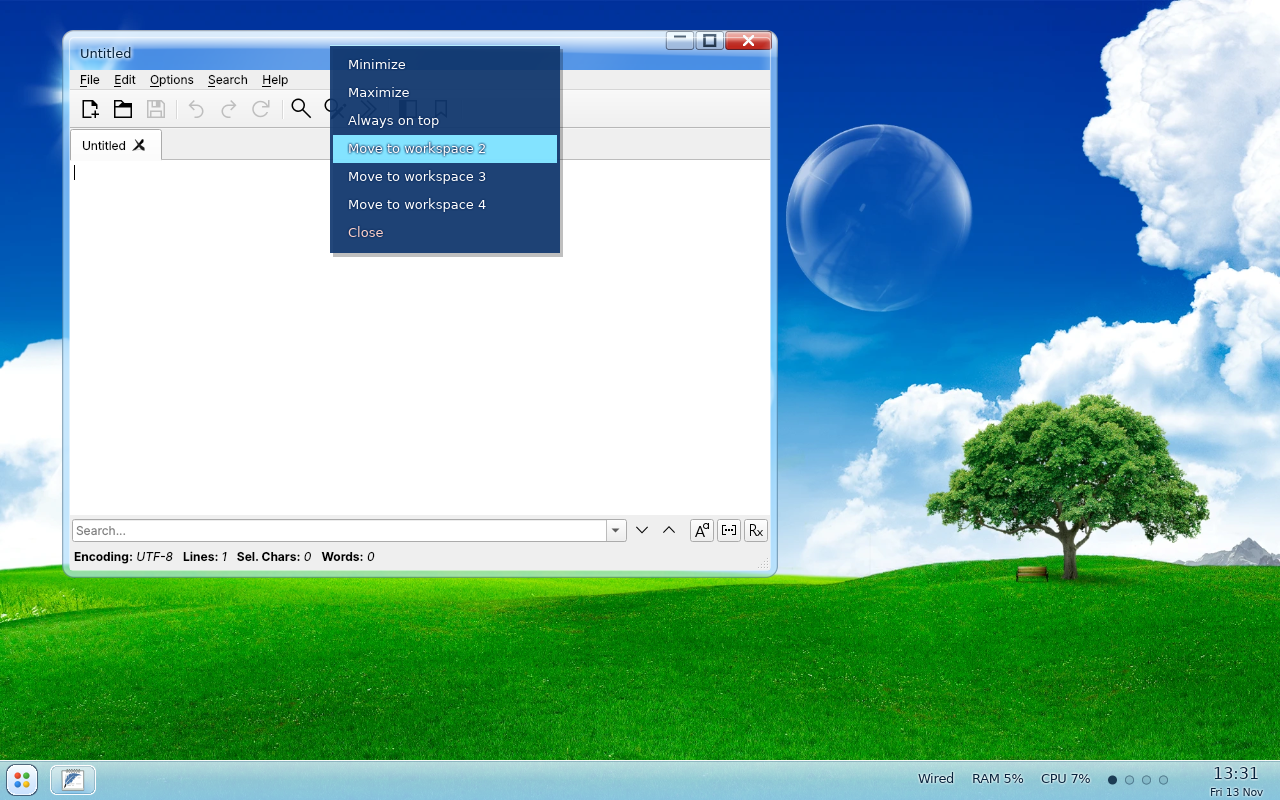
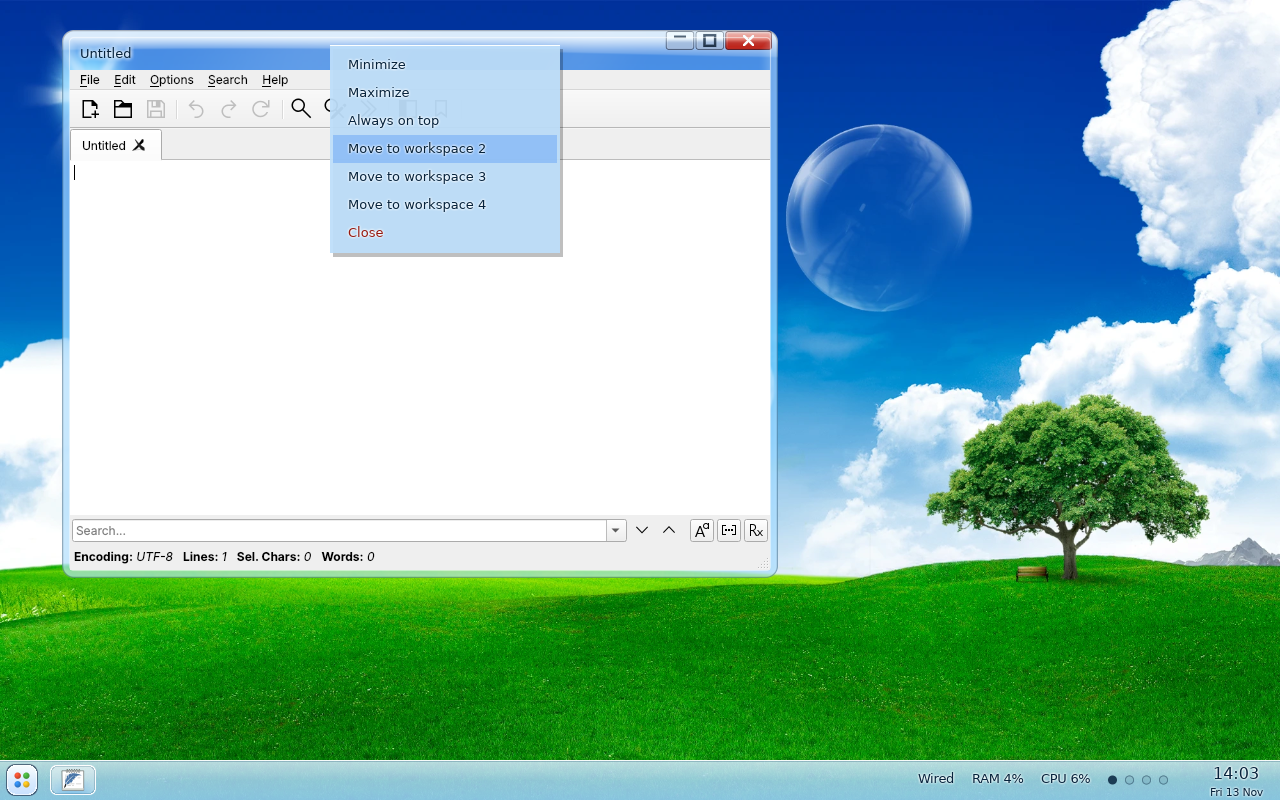
Start menu, notifications and the window menu in the light glass of the task bar and windows
- Start menu: light blue glass frame, bright rim, dark text; the power buttons are light tiles
  (red with white text while waiting for the second click)
- Notifications: light glass with dark text, a red tint for critical ones; action buttons are
  light tiles
- Window menu (right-click on a title bar): light glass, dark text, a blue highlight, a red Close
- Tests follow: the bubble test counts all three colour channels (light glass over a light sky
  differs less in red and green); screenshots retaken

Claude-Session: https://claude.ai/code/session_01AksNTTEEpWACMAbBincPJS

Changed region(s): [[0.25, 0.0312, 0.4375, 0.3438]]

diff --git a/src/notify.rs b/src/notify.rs
@@ -192,26 +192,29 @@ pub fn draw(text: &mut TextRenderer, s: i32, notes: &[&Note]) -> Vec<u8> {
                 let t = y as f32 / bubble_h as f32;
                 let idx = (((y0 + y) * w + x) * 4) as usize;
                 let px = &mut buf[idx..idx + 4];
-                // the dark glass of the task bar (red for critical ones), a sheen, a light rim
-                let base = if note.critical { [0.62, 0.16, 0.10] } else { pal.dark(0.45 + 0.15 * t) };
-                blend(px, base, (0.84 + 0.14 * pal.solid) * cover);
+                // the light glass of the task bar and the windows (a red tint for critical ones), a
+                // sheen, a bright rim with a thin shade inside it
+                let base = if note.critical { [0.98, 0.58, 0.52 - 0.1 * t] } else { pal.light(0.42 + 0.18 * (1.0 - t)) };
+                blend(px, base, (0.88 + 0.06 * t + 0.06 * pal.solid) * cover);
                 if t < 0.4 {
-                    blend(px, [1.0, 1.0, 1.0], 0.14 * (1.0 - t / 0.4) * cover * pal.shine);
+                    blend(px, [1.0, 1.0, 1.0], 0.30 * (1.0 - t / 0.4) * cover * pal.shine.max(0.25));
                 }
                 if d > -1.5 * sf {
-                    blend(px, [1.0, 1.0, 1.0], 0.5 * cover);
+                    blend(px, [1.0, 1.0, 1.0], 0.85 * cover);
                 } else if d > -2.5 * sf {
-                    blend(px, [0.0, 0.0, 0.0], 0.25 * cover);
+                    blend(px, pal.dark(0.5), 0.28 * cover);
                 }
             }
         }
-        if let Some(img) = text.line(&note.summary, w - 32 * s, 15.0 * sf, [255, 255, 255], pal.glow(0.9), 2 * s) {
+        let ink = if note.critical { [95, 12, 6] } else { pal.ink };
+        let soft = [(ink[0] as u32 * 3 / 4 + 40) as u8, (ink[1] as u32 * 3 / 4 + 45) as u8, (ink[2] as u32 * 3 / 4 + 55) as u8];
+        if let Some(img) = text.line(&note.summary, w - 32 * s, 15.0 * sf, ink, Some(([255, 255, 255], 0.9)), 2 * s) {
             blit(&mut buf, w, h, &img, 16 * s, y0 + 12 * s);
         }
         // the message: on two lines when there are no buttons below it
         let lines = if note.buttons().is_empty() { wrap(text, &note.body, w - 32 * s, 13.0 * sf, 2) } else { vec![note.body.clone()] };
         for (li, line) in lines.iter().enumerate() {
-            if let Some(img) = text.line(line, w - 32 * s, 13.0 * sf, [225, 238, 252], Some(([0, 0, 0], 0.5)), 2 * s) {
+            if let Some(img) = text.line(line, w - 32 * s, 13.0 * sf, soft, Some(([255, 255, 255], 0.8)), 2 * s) {
                 blit(&mut buf, w, h, &img, 16 * s, y0 + (38 + 18 * li as i32) * s);
             }
         }
@@ -228,14 +231,16 @@ pub fn draw(text: &mut TextRenderer, s: i32, notes: &[&Note]) -> Vec<u8> {
                     let cover = (0.5 - d).clamp(0.0, 1.0);
                     if cover > 0.0 {
                         let idx = ((y * w + x) * 4) as usize;
-                        blend(&mut buf[idx..idx + 4], [1.0, 1.0, 1.0], 0.28 * cover);
+                        blend(&mut buf[idx..idx + 4], [1.0, 1.0, 1.0], 0.45 * cover);
                         if d > -1.2 * sf {
-                            blend(&mut buf[idx..idx + 4], [1.0, 1.0, 1.0], 0.5 * cover);
+                            blend(&mut buf[idx..idx + 4], [1.0, 1.0, 1.0], 0.85 * cover);
+                        } else if d > -2.2 * sf {
+                            blend(&mut buf[idx..idx + 4], pal.dark(0.55), 0.22 * cover);
                         }
                     }
                 }
             }
-            if let Some(img) = text.line(label, bx1 - bx0 - 8 * s, 12.0 * sf, [255, 255, 255], pal.glow(0.8), s) {
+            if let Some(img) = text.line(label, bx1 - bx0 - 8 * s, 12.0 * sf, ink, Some(([255, 255, 255], 0.8)), s) {
                 blit(&mut buf, w, h, &img, bx0 + (bx1 - bx0 - img.width) / 2, by0 + (by1 - by0 - img.height) / 2);
             }
         }

diff --git a/src/panel.rs b/src/panel.rs
@@ -403,15 +403,16 @@ pub fn draw_menu(text: &mut TextRenderer, s: i32, query: &str, names: &[String],
             let t = y as f32 / h as f32;
             let i = ((y * w + x) * 4) as usize;
             let px = &mut buf[i..i + 4];
-            // the same dark glass as the task bar, with a sheen at the top and a light rim
-            blend(px, pal.dark(0.42 + 0.2 * t), (0.80 + 0.17 * pal.solid) * cover);
+            // the same light glass as the task bar and the window frames: a sheen at the top, a
+            // bright rim with a thin shade inside it
+            blend(px, pal.light(0.42 + 0.18 * (1.0 - t)), (0.82 + 0.08 * t + 0.10 * pal.solid) * cover);
             if t < 0.2 {
-                blend(px, [1.0, 1.0, 1.0], 0.14 * (1.0 - t * 5.0) * cover * pal.shine);
+                blend(px, [1.0, 1.0, 1.0], 0.30 * (1.0 - t * 5.0) * cover * pal.shine.max(0.25));
             }
             if d > -1.5 * sf {
-                blend(px, [1.0, 1.0, 1.0], 0.50 * cover);
+                blend(px, [1.0, 1.0, 1.0], 0.85 * cover);
             } else if d > -2.5 * sf {
-                blend(px, [0.0, 0.0, 0.0], 0.25 * cover);
+                blend(px, pal.dark(0.5), 0.28 * cover);
             }
         }
     }
@@ -498,7 +499,7 @@ pub fn draw_menu(text: &mut TextRenderer, s: i32, query: &str, names: &[String],
         let ly = (mh - POWER_H) * s;
         for x in MENU_PAD * s..w - MENU_PAD * s {
             let idx = ((ly * w + x) * 4) as usize;
-            blend(&mut buf[idx..idx + 4], [1.0, 1.0, 1.0], 0.35);
+            blend(&mut buf[idx..idx + 4], pal.dark(0.5), 0.30);
         }
         for (i, action) in crate::power::ACTIONS.iter().enumerate() {
             let (x0, y0, x1, y1) = power_rect(i);
@@ -518,24 +519,26 @@ pub fn draw_menu(text: &mut TextRenderer, s: i32, query: &str, names: &[String],
                     let t = (y - y0) as f32 / (y1 - y0) as f32;
                     let idx = ((y * w + x) * 4) as usize;
                     let (base, a) = if armed {
-                        ([0.85, 0.22, 0.18], 0.85 - 0.15 * t)
+                        ([0.85, 0.22, 0.18], 0.90 - 0.15 * t)
                     } else if hot {
-                        (pal.light(0.6), 0.6 - 0.2 * t)
+                        (pal.light(0.2), 0.75 - 0.2 * t)
                     } else {
-                        (pal.light(0.2), 0.3 - 0.1 * t)
+                        ([1.0, 1.0, 1.0], 0.40 - 0.16 * t)
                     };
                     blend(&mut buf[idx..idx + 4], base, a * cover);
                     if t < 0.45 {
-                        blend(&mut buf[idx..idx + 4], [1.0, 1.0, 1.0], 0.12 * cover * pal.shine);
+                        blend(&mut buf[idx..idx + 4], [1.0, 1.0, 1.0], 0.20 * (1.0 - t / 0.45) * cover * pal.shine.max(0.25));
                     }
                     if d > -1.2 * sf {
-                        blend(&mut buf[idx..idx + 4], [1.0, 1.0, 1.0], 0.4 * cover);
+                        blend(&mut buf[idx..idx + 4], [1.0, 1.0, 1.0], 0.85 * cover);
+                    } else if d > -2.2 * sf {
+                        blend(&mut buf[idx..idx + 4], pal.dark(0.55), 0.22 * cover);
                     }
                 }
             }
             let label = if armed { "Sure?" } else { action.label };
-            let color = if hot && !armed { [10, 50, 100] } else { [255, 255, 255] };
-            let glow = if hot && !armed { None } else { pal.glow(0.7) };
+            let color = if armed { [255, 255, 255] } else { pal.ink };
+            let glow = if armed { Some(([90, 10, 5], 0.6)) } else { Some(([255, 255, 255], 0.8)) };
             if let Some(img) = text.line(label, x1 - x0, 11.0 * sf, color, glow, s) {
                 blit(&mut buf, w, h, &img, x0 + (x1 - x0 - img.width) / 2, y0 + (y1 - y0 - img.height) / 2);
             }

diff --git a/src/render.rs b/src/render.rs
@@ -648,8 +648,8 @@ impl Fde {
         let mut lines: Vec<(GlesTexture, Rectangle<i32, Physical>)> = Vec::new();
         for (i, item) in menu.items.iter().enumerate() {
             let row = view.rect(Rectangle::new((menu.at.x + PAD, menu.at.y + PAD + i as i32 * ROW_H).into(), (crate::winmenu::WIDTH - 2 * PAD, ROW_H).into()));
-            let color = if matches!(item, crate::winmenu::MenuItem::Close) { [255, 210, 200] } else { [255, 255, 255] };
-            if let Some(img) = self.text.line(&item.label(), row.size.w - sc(16, view.scale), 13.0 * view.scale as f32, color, Some(([8, 40, 90], 0.8)), sc(2, view.scale)) {
+            let color = if matches!(item, crate::winmenu::MenuItem::Close) { [150, 25, 15] } else { crate::theme::palette().ink };
+            if let Some(img) = self.text.line(&item.label(), row.size.w - sc(16, view.scale), 13.0 * view.scale as f32, color, Some(([255, 255, 255], 0.8)), sc(2, view.scale)) {
                 let tex = renderer.import_memory(&img.rgba, Fourcc::Abgr8888, Size::<i32, BufferCoord>::from((img.width, img.height)), false)?;
                 let dest = Rectangle::new((row.loc.x + sc(10, view.scale), row.loc.y + (row.size.h - img.height) / 2).into(), (img.width, img.height).into());
                 lines.push((tex, dest));
@@ -661,12 +661,13 @@ impl Fde {
         // a soft shadow, the sheet, a light top edge
         let shadow = Rectangle::<i32, Physical>::new((sheet.loc.x + sc(3, view.scale), sheet.loc.y + sc(4, view.scale)).into(), sheet.size);
         frame.draw_solid(full, &[shadow], Color32F::new(0.0, 0.0, 0.0, 0.25))?;
-        frame.draw_solid(full, &[sheet], Color32F::new(0.06, 0.2, 0.4, 0.92))?;
+        // the light glass of the task bar and the windows (premultiplied)
+        frame.draw_solid(full, &[sheet], Color32F::new(0.70, 0.82, 0.92, 0.94))?;
         let edge = Rectangle::<i32, Physical>::new(sheet.loc, (sheet.size.w, sc(1, view.scale).max(1)).into());
-        frame.draw_solid(full, &[edge], Color32F::new(0.7, 0.88, 1.0, 0.8))?;
+        frame.draw_solid(full, &[edge], Color32F::new(0.95, 0.98, 1.0, 0.95))?;
         if let Some(h) = menu.hover {
             let lit = view.rect(Rectangle::new((menu.at.x + PAD / 2, menu.at.y + PAD + h as i32 * ROW_H).into(), (crate::winmenu::WIDTH - PAD, ROW_H).into()));
-            frame.draw_solid(full, &[lit], Color32F::new(0.45, 0.75, 1.0, 0.45))?;
+            frame.draw_solid(full, &[lit], Color32F::new(0.22, 0.34, 0.50, 0.52))?; // premultiplied: a blue at half strength
         }
         for (tex, dest) in &lines {
             let src = Rectangle::<f64, BufferCoord>::from_size((tex.size().w as f64, tex.size().h as f64).into());

diff --git a/tests/e2e.rs b/tests/e2e.rs
@@ -731,7 +731,7 @@ fn a_notification_sent_over_dbus_appears_as_a_bubble_and_goes_away() {
         hn.pump();
         hn.state.render_scene(&mut renderer, &glass, &mut scene).unwrap();
         let now = pixel(&grab(&mut renderer, &mut scene), w, w - 12 - 170, 12 + 70);
-        if (now[0] - before[0]).abs() + (now[1] - before[1]).abs() > 30 {
+        if (now[0] - before[0]).abs() + (now[1] - before[1]).abs() + (now[2] - before[2]).abs() > 12 {
             shown = true;
             break;
         }
@@ -746,7 +746,7 @@ fn a_notification_sent_over_dbus_appears_as_a_bubble_and_goes_away() {
         hn.pump();
         hn.state.render_scene(&mut renderer, &glass, &mut scene).unwrap();
         let now = pixel(&grab(&mut renderer, &mut scene), w, w - 12 - 170, 12 + 70);
-        if (now[0] - before[0]).abs() + (now[1] - before[1]).abs() < 6 {
+        if (now[0] - before[0]).abs() + (now[1] - before[1]).abs() + (now[2] - before[2]).abs() < 6 {
             gone = true;
             break;
         }
@@ -3718,7 +3718,7 @@ fn right_clicking_a_title_bar_opens_the_window_menu_and_its_rows_work() {
     let (mx, my) = (r.loc.x + r.size.w - 6, r.loc.y + r.size.h - 4);
     assert_ne!(pixel(&before, 800, mx, my), pixel(&after, 800, mx, my));
     let px = pixel(&after, 800, mx, my);
-    assert!(px[2] > px[0] + 30, "the menu's dark blue glass is drawn: {px:?}");
+    assert!(px[2] > px[0] + 15 && px[0] > 120, "the menu's light blue glass is drawn: {px:?}");
 
     // the row under the pointer lights up; clicking it chooses it
     let row_y = |i: usize| (r.loc.y + fde::winmenu::PAD + i as i32 * fde::winmenu::ROW_H + fde::winmenu::ROW_H / 2) as f64;
